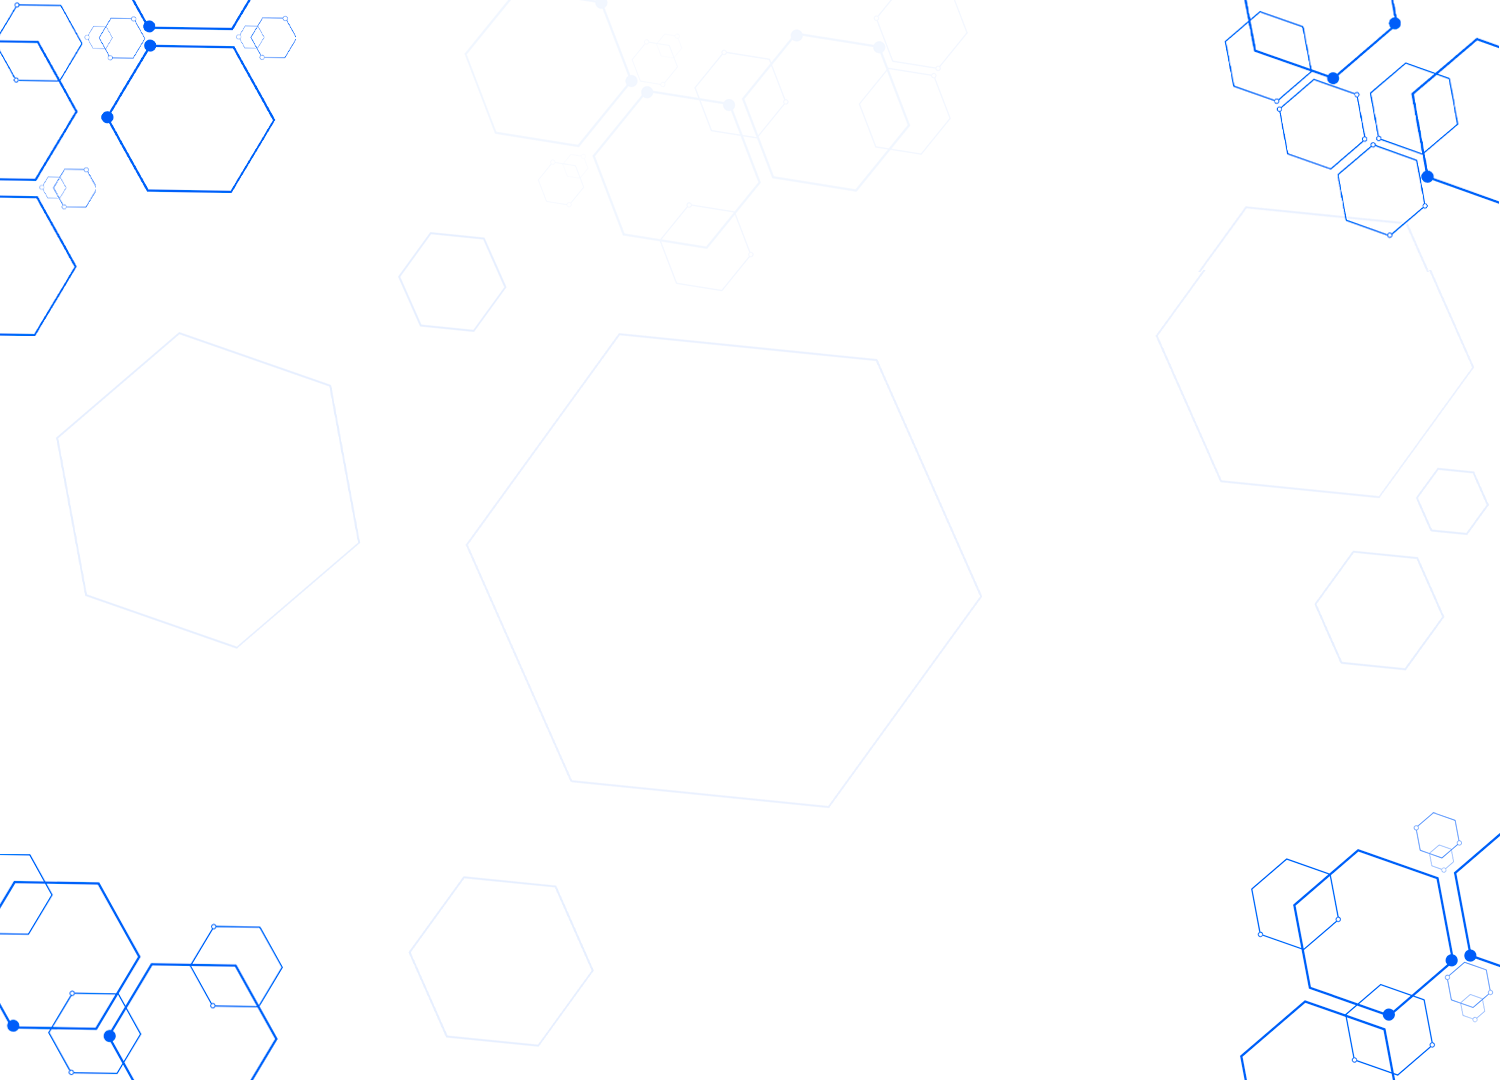
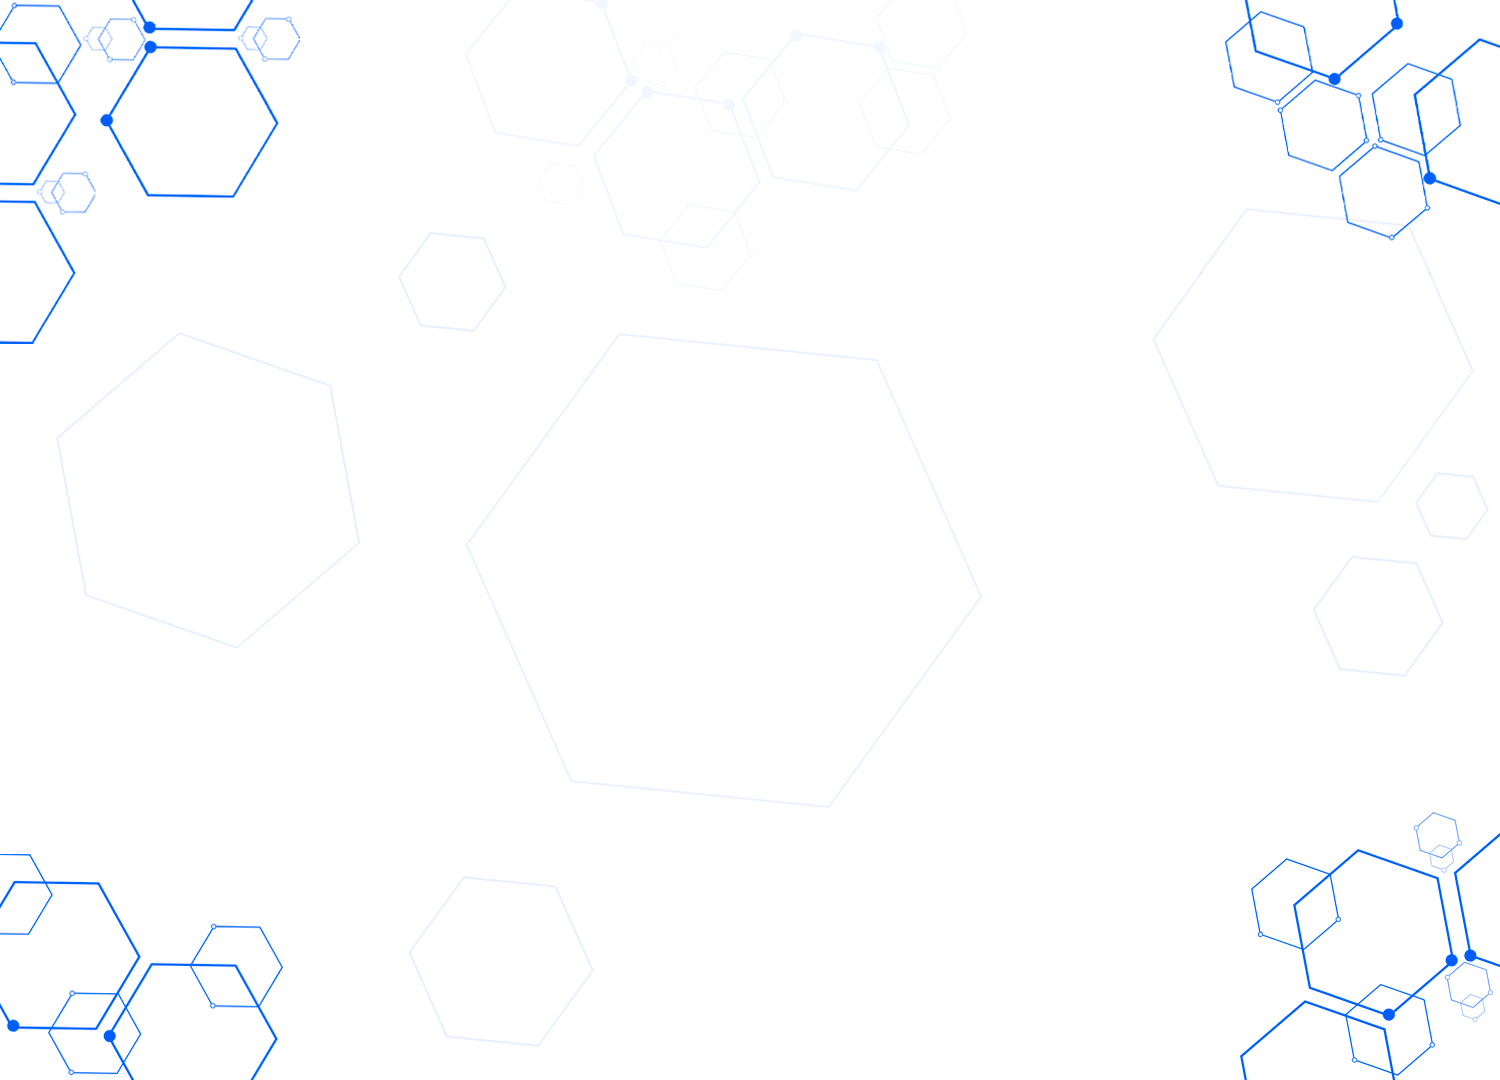
Ajuste imagens

diff --git a/src/services/elogiosTemplateService.ts b/src/services/elogiosTemplateService.ts
@@ -577,16 +577,21 @@ export class ElogiosTemplateService {
           const linhas = [linha1];
           if (linha2.length > 0) linhas.push(linha2);
 
+          // Fundo alternativo a partir do 2º bloco (índice 1+)
+          const bgImage = blocoIndex >= 1
+            ? 'https://books-sonda.vercel.app/images/elogios/detalhes-fundo-demais-paginas-3.png'
+            : 'https://books-sonda.vercel.app/images/elogios/detalhes-fundo-demais-paginas.png';
+
           // Abrir bloco 1500x1080
           html += `
     <!--[if gte mso 9]>
     <v:rect xmlns:v="urn:schemas-microsoft-com:vml" fill="true" stroke="false" style="width:1500px;height:1080px;">
-    <v:fill type="frame" src="https://books-sonda.vercel.app/images/elogios/detalhes-fundo-demais-paginas.png" color="#ffffff" />
+    <v:fill type="frame" src="${bgImage}" color="#ffffff" />
     <v:textbox inset="0,0,0,0" style="mso-fit-shape-to-text:true">
     <![endif]-->
     <div style="max-width:1500px;margin:0 auto;">
     <table width="1500" cellpadding="0" cellspacing="0" border="0"
-      style="border-collapse:collapse;width:1500px;max-width:1500px;height:1080px;margin:0 auto;background:#ffffff url('https://books-sonda.vercel.app/images/elogios/detalhes-fundo-demais-paginas.png') no-repeat center center;background-size:cover;">
+      style="border-collapse:collapse;width:1500px;max-width:1500px;height:1080px;margin:0 auto;background:#ffffff url('${bgImage}') no-repeat center center;background-size:cover;">
       <!-- HEADER DO BLOCO -->
       <tr>
         <td align="center" style="padding:40px 20px 10px;">
